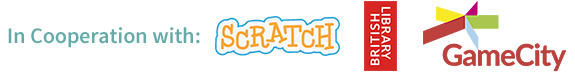
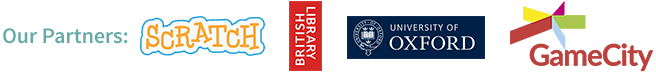
update partners and FAQ

diff --git a/faq.html b/faq.html
@@ -95,8 +95,8 @@
           <ul>
             <li><a class="scroll" href="#faq0">What's Alice's story?</a></li>
             <li><a class="scroll" href="#faq1">Who are the main figures?</a></li>
-            <li><a class="scroll" href="#faq2">What's Pocket Code?</a></li>
-            <li><a class="scroll" href="#faq3">How to get into Pocket Code?</a></li>
+            <li><a class="scroll" href="#faq2">What are Pocket Code and Scratch?</a></li>
+            <li><a class="scroll" href="#faq3">How to get into Coding?</a></li>
             <li><a class="scroll" href="#faq4">Is it free?</a></li>
             <li><a class="scroll" href="#faq5">Who is behind Pocket Code?</a></li>
             <li><a class="scroll" href="#faq6">Which content, sounds or graphics I may use?</a></li>
@@ -104,7 +104,7 @@
             <li><a class="scroll" href="#faq8">What do I have to bear in mind if I want to participate?</a></li>
             <li><a class="scroll" href="#faq9">Where do I have to register and submit my app?</a></li>
             <li><a class="scroll" href="#faq10">How will it go on after we submitted our game?</a></li>
-            <li><a class="scroll" href="#faq11">Who will judge the game entries and what are the prizes?</a></li>
+            <li><a class="scroll" href="#faq11">What are the prizes?</a></li>
             <li><a class="scroll" href="#faq12">How can I contact you?</a></li>
             <li><a class="scroll" href="#faq13">Is there any possibility to get news and information about this Game Jam?</a></li>
             <li><a class="scroll" href="#faq14">Can I also participate in the Alice Game Jam Europe in October 2015?</a></li>
@@ -131,14 +131,16 @@
            Of course there are many more characters within the story. To get more information about them, read the book!
 	</p>
 	
-          <h2><a id="faq2">What's Pocket Code?</a></h2>
-          <p>Pocket Code allows you to create your own games, animations, interactive music videos, and many kind of other apps, directly on your phone or tablet. You can download Pocket Code for free on <a target="_blank" href="http://catrob.at/pc">Google Play</a>. We've got a great <a target="_blank" href="http://www.pocketcode.org/">community site</a> where you can find all programs which were created with Pocket Code. Pay us a visit and have a look around.</p>
-          <h2><a id="faq3">How to get into Pocket Code?</a></h2>
-          <p>We have some great information for beginners which you should <a target="_blank" href="https://pocketcode.org/tutorial">check out</a>. Or try out our <a target="_blank" href="https://pocketcode.org/hourOfCode">Hour of Code tutorial</a>.</p>
+          <h2><a id="faq2">What are Pocket Code and Scratch?</a></h2>
+          <p>Pocket Code and Scratch are two great tools to learn coding, easily create games, animations or stories and are perfectly appropriate for educational use. Whereas Pocket Code just can be used on mobile devices like smartphones or tablet to create apps, Scratch is for Computers and can also be used within the web. However, both frameworks use a similar visual programming language, which can be learned without any previous knowledge. For more information take a look at the website of <a href="http://www.pocketcode.org" target="blank_">Pocket Code</a> or <a href="http://scratch.mit.edu" target="blank_">Scratch</a>.</p>
+  
+					<h2><a id="faq3">How to get into Coding?</a></h2>
+          <p>We provided some great information for beginners which you should <a target="_blank" href="tutorials.html">check out</a>. There you can find some free examples, Tutorials and HowTos for Pocket Code and Scratch.</p>
 	  
           <h2><a id="faq4">Is it free?</a></h2>
 	<p>Your participation in the Alice Game Jam is totally free.</p>
-          <p>Our Pocket Code app is perpetually provided free of any charge on Google Play and will never include any in-App purchases or ads. You can download all programs made with Pocket Code by others from all over the world without any registration. You set up an account with us only when you upload your own first program you created with Pocket Code.</p>
+          <p>The Pocket Code app is perpetually provided free of any charge on Google Play and will never include any in-App purchases or ads. You can download all programs made with Pocket Code by others from all over the world without any registration. You set up an account with us only when you upload your own first program you created with Pocket Code.</p>
+					<p>Also Scratch is provided for free on their website <a href="http://scratch.mit.edu" target="blank_">scratch.mit.edu</a> and is availabe in many different languages. More detailed information about Scratch, its possibilities for education and appearance worldwide can also be found on this website.
 	  
           <h2><a id="faq5">Who is behind Pocket Code?</a></h2>
           <p>Pocket Code is provided by the non-profit Catrobat organization which aim is to provide free educational apps. Around 300 volunteers from all over the world work on the project to create apps and possibilities for teenagers and education. More information can be found on our website <a href="http://www.catrobat.org">www.catrobat.org</a>.</p>       
@@ -155,14 +157,14 @@
 	  
           <h2><a id="faq9">Where do I have to register and submit my app?</a></h2>
           <p>To register for the Jam special links to a form are provided at "Participate". All information will be handled with care - more information at <a href="http://www.alicegamejam.com/terms.html">Terms&amp;Privacy</a>.</p>
-          <p>To submit your finished game please tag it with #AliceGameJam in the description of the project and upload it from Pocket Code. You can upload revised versions of your game under the same name and account as often as you want.</p>
+          <p>To submit your finished game please tag it with #AliceGameJam in the description of the project and upload it to your relative community (Pocket Code or Scratch). You can upload revised versions of your game under the same name and account as often as you want.</p>
 	
           <h2><a id="faq10">What will happen after we submit our game?</a></h2>
-          <p>After the deadline we will forward the submitted games to our expert jury. They will take several things into consideration to find the best games. After that we will inform you via e-mail if you're the winner. And we’ll keep everyone up to date on our social media feeds and with our newsletter.</p>
+          <p>After the deadline all projects will be displayed on our <a href="fame.html">Wall of Fame</a> where you have the possibility to share it with your family, friends and the whole world. After the GameJam we will raffle off some prizes and give aways to the participants. To stay tuned and get all information you can follow us on Twitter, Facebook or Google+ or subscribe our Newsletter.</p>
 	  
-          <h2><a id="faq11">Who will judge the game entries and what are the prizes?</a></h2>
-          <p>The jury will be announced at our website right before the Jam.</p>
-          <p>Of course there will be rewards and prizes for the best games. More information on this will be announced once it is decided.</p> 
+          <h2><a id="faq11">What are the prizes?</a></h2>
+          <p>All participants who submitted a game, animation or story which fulfills the requirements stated on the main page will have the chance to win some great prizes and give-aways at our raffle.</p>
+          <p>Further information about the raffle, terms and conditions and some details about the prizes will be published here in good time before the AliceGameJam in December.</p> 
 	
           <h2><a id="faq12">How can I contact you?</a></h2>
           <p>If you need any further information, advice or anything else, you may contact us via our social media sites which are linked on the bottom. You may also use the "Contact" link on the bottom to write us an <a href="mailto:alice@alicegamejam.com?subject=AliceGameJam FAQs">E-mail</a>, which we will try to answer as soon as possible.</p>

diff --git a/index.html b/index.html
@@ -231,7 +231,7 @@
       <!-- Main component for a primary marketing message or call to action -->
       <div class="row">
         <div class="col-md-12">
-          <h1><a id="partners">In cooperation with</a></h1>
+          <h1><a id="partners">Our Partners</a></h1>
         </div>
         <div class="col-md-4">
           <h2>GameCity</h2>
@@ -241,6 +241,9 @@
           <h2>Catrobat</h2>
           <p>Catrobat is a non-profit project providing free educational apps for children and teenagers, such as Pocket Code or Pocket Paint.</p>
           <p>If you want to know more about Catrobat visit <a target="_blank" href="http://www.catrobat.org/">www.catrobat.org</a>.</p>
+					<h2>The Scratch Foundation</h2>
+          <p><a href="http://www.scratchfoundation.org/" target ="_blank">The Scratch Foundation</a> has its specific focus on Scratch and its dynamic ecosystem of interacting projects (Scratch, ScratchJr, ScratchEd) and events (Scratch Day, Scratch Conference, Scratch Educator Meetups).</p>
+	
         </div>
         <div class="col-md-4">
           <h2>No One Left Behind</h2>
@@ -249,11 +252,11 @@
           <p>For further information visit <a target="_blank" href="http://www.no1leftbehind.eu">www.no1leftbehind.eu</a></p>      
         </div>
         <div class="col-md-4">
-	<h2>British Library</h2>
+					<h2>British Library</h2>
           <p>The British Library is the largest library of the world by catalogued items and one of the most important in the fields of research. It is also the home of the original Alice in Wonderland books and provides a wide range of resources about Alice and her adventures. The <a href="http://www.bl.uk/romantics-and-victorians" target="British Library">Discovering Literature section</a> provides lots of opportunities to find exciting and new facts about Alice, e.g., <a href="http://www.bl.uk/romantics-and-victorians/articles/understanding-alice" target="new">Understanding Alice</a>.</p>
-	<h2>The Scratch Foundation</h2>
-          <p><a href="http://www.scratchfoundation.org/" target ="_blank">The Scratch Foundation</a> has its specific focus on Scratch and its dynamic ecosystem of interacting projects (Scratch, ScratchJr, ScratchEd) and events (Scratch Day, Scratch Conference, Scratch Educator Meetups).</p>
-        </div>  
+  				<h2>The Oxford University</h2>
+					<p>Alice in Wonderland is intimately tied to Oxford University: Many of the places and characters appearing in the book, including Alice herself, are inspired by real places and persons at Oxford University at the time when its author, Lewis Carroll was a lecturer and researcher there. To this day, visitors can find many hidden hints in and around Oxford University, e.g., the university's dining hall that was famously featured in the Harry Potter movies, which also has a window dedicated to Lewis Carroll with a portrait of Alice. </p>
+					</div>  
       </div>
       <div class="row">
         <div class="col-md-12 graphic">
@@ -263,6 +266,7 @@
           <div><a href="http://www.scratchfoundation.org/" target="_blank"><img height="80" src="img/logo/scratch.png"/></a></div>   
           <div><a href="http://www.bl.uk" target="_blank"><img height="80" src="img/logo/BL.png"/></a></div>
           <div><a href="http://no1leftbehind.eu" target="_blank"><img height="80" src="img/logo/NOLB.png"/></a></div>
+          <div><a href="http://www.ox.ac.uk/" target="_blank"><img height="80" src="img/logo/oxford.png"/></a></div>
           </div>
         </div>
       </div>

diff --git a/partners.html b/partners.html
@@ -114,7 +114,19 @@
           <div class="col-centered logo-middle"><a href="https://ec.europa.eu/programmes/horizon2020/" target="_blank"><img height="80" src="img/logo/horizon2020.png"/></a></div>
           <div class="col-centered logo-middle"><a href="http://www.tugraz.at" target="_blank"><img height="80" src="img/logo/TUG.png"/></a></div>
           <div class="col-centered logo-middle"><a href="http://www.fh-joanneum.at" target="_blank"><img height="80" src="img/logo/logos-FH.png"/></a></div>
-          <div class="col-centered logo-middle"><a href="http://www.allyouneediscode.eu" target="_blank"><img height="80" src="img/logo/aynic.png"/></a></div>
+          <div class="col-centered logo-middle"><a href="http://www.ox.ac.uk/" target="_blank"><img height="80" src="img/logo/oxford.png"/></a></div>
+      </div>
+			
+	  <div class="row decor">
+        <div class="col-md-12 graphic">
+          <div class="separator">
+            <img src="img/dots.png"/>
+          </div>
+        </div>
+      </div>  
+			
+	  <div class="row partner_section">
+          <div class="col-centered logo-small"><a href="http://www.allyouneediscode.eu" target="_blank"><img height="80" src="img/logo/aynic.png"/></a></div>
       </div>
     </div> <!-- /container -->
     </div>    

diff --git a/css/main.css b/css/main.css
@@ -117,9 +117,7 @@ body {
   .nav-alice li:last-child {
     border-bottom: 1px solid rgba(255,255,255,0);
   }    
-  .decor {
-    display: none;
-  }
+
   #hidden_subs-form {
   width: 95%;
   }
@@ -195,6 +193,9 @@ body {
   .container {
     width: 100%;
   }
+  .decor {
+    display: none;
+  }
 
 }
 @media (min-width: 992px) {
@@ -204,8 +205,7 @@ body {
   .foot-desk {
     display: block;
   }
-  .graphic {
-  } 
+
  
 }
 
